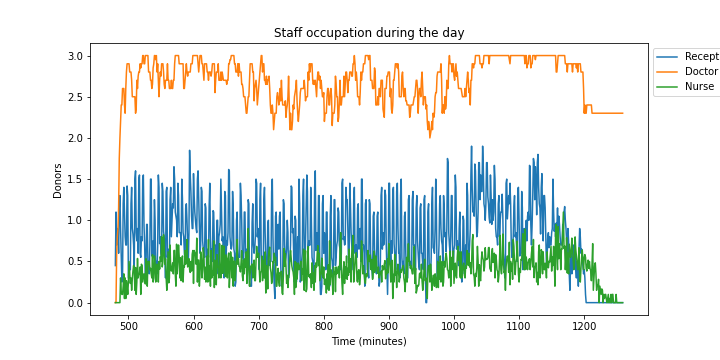
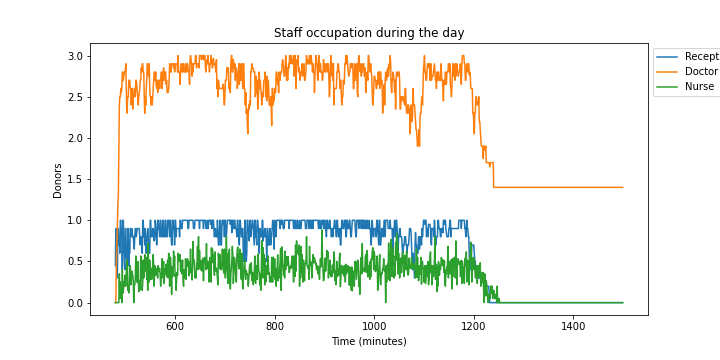
Default configuration

diff --git a/Assignment 3/test.py b/Assignment 3/test.py
@@ -8,7 +8,7 @@ from util import *
 import matplotlib.pyplot as plt
 from scipy import stats
 
-np.random.seed(2)
+np.random.seed(3)
 
 # Register all event handlers and policies
 def register_handlers():
@@ -35,9 +35,13 @@ def register_handlers():
 def add_arrivals():
     system.re_init()
     # add plasma donor arrivals
-    for t in range(opening_time, closing_time - 60, 6):
+    num = 0
+    for t in range(opening_time, closing_time - 60, 5):
+        num += 1
         if np.random.random() <= 0.85:
             system.add_arrival(t, Donor(t, Donor.PLASMA))
+        if num >= 110:
+            break
     # add whole blood donor arrivals
     arrival_times = dist_arrivals.between(opening_time, closing_time)
     for arrival_time in arrival_times:
@@ -265,7 +269,7 @@ def fill_minutes(data):
     for key in data:
         tuples = data[key]
         filled_day[key] = []
-        for i in range(480, 1260):
+        for i in range(480, 1500):
             curr_minute = []
             for index in range(len(tuples)-1, -1, -1):
                 time = math.floor(tuples[index][0])
@@ -464,7 +468,7 @@ def combine_days(days_data):
             values[day] = [tup[1] for tup in tuples]
         minutes = [[values[day][n] for day in range(n_days)] for n in range(len(values[0]))]
         key_data[key] = [np.mean(minute) for minute in minutes]
-        key_data[key] = list(zip(range(480, 1260), key_data[key]))
+        key_data[key] = list(zip(range(480, 1500), key_data[key]))
 
     return key_data
     
@@ -481,7 +485,7 @@ def run_simulation(days):
 
     return events_by_day
 
-events_by_day = run_simulation(50)
+events_by_day = run_simulation(10)
 display_all_results(events_by_day, False)
 
 # [[print(action) for action in event.executed_actions] for event in events]

diff --git a/Assignment 3/system_definition.py b/Assignment 3/system_definition.py
@@ -20,13 +20,13 @@ receptionists = [
 doctors = [
     system.createStaff('Doctor', 'Doctor 1'),
     system.createStaff('Doctor', 'Doctor 2'),
-    # system.createStaff('Doctor', 'Doctor 3'),
+    system.createStaff('Doctor', 'Doctor 3'),
 ]
 nurses = [
     system.createStaff('Nurse', 'Nurse 1'),
-    system.createStaff('Nurse', 'Nurse 2'),
-    system.createStaff('Nurse', 'Nurse 3'),
-    system.createStaff('Nurse', 'Nurse 4')
+    # system.createStaff('Nurse', 'Nurse 2'),
+    # system.createStaff('Nurse', 'Nurse 3'),
+    # system.createStaff('Nurse', 'Nurse 4')
 ]
 
 # Returns the arrival rate per minute of whole blood donors
@@ -54,5 +54,5 @@ dist_arrivals = NHPP(arrival_rate_at, 13/30)
 opening_time = 8 * 60
 closing_time = 20 * 60
 
-available_beds_plasma = 7
-available_beds_blood = 7
+available_beds_plasma = 9
+available_beds_blood = 5
